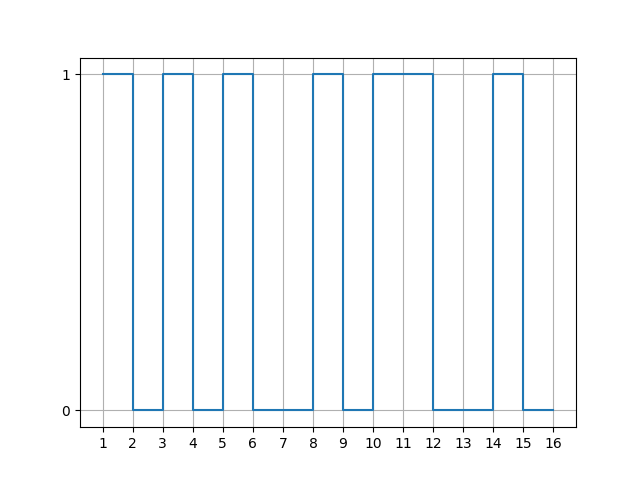
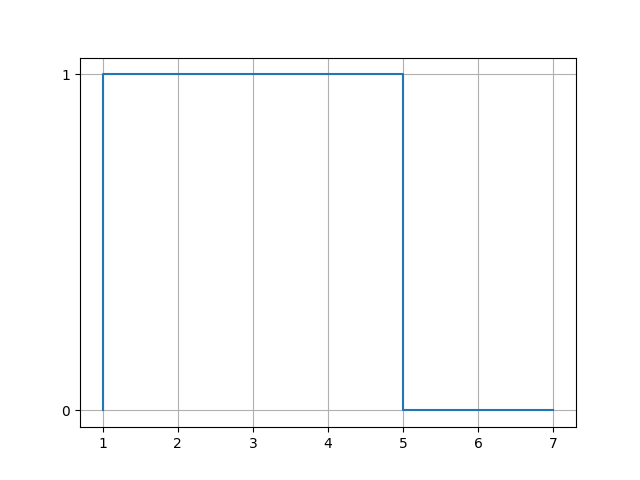
just missing the encodings

diff --git a/main_application.py b/main_application.py
@@ -1,5 +1,8 @@
 import pygame
+import os.path
+
 from interface import Interface
+from wave_generator import DataPlotter
 
 class app:
     def __init__(self):
@@ -19,11 +22,23 @@ class app:
         # text input box
         self.text_input_box_width = 200
         self.text_input_box_height = 40
+        self.text_input_box_px = 40
+        self.text_input_box_py = 40
         self.text_input_box = pygame.Rect((self.display.get_width() - self.text_input_box_width) // 2,
-                                           (self.display.get_height() - self.text_input_box_height) // 2,
+                                           (self.display.get_height() - self.text_input_box_height) // 6,
                                            self.text_input_box_width,
                                            self.text_input_box_height)
+        
         self.text_input = ""
+        self.dataplt = DataPlotter()
+        self.image_path = os.path.join('./generated_waves/plot.png')
+
+        # load image
+        self.current_image = None
+        try:
+            self.current_image = pygame.image.load(self.image_path)
+        except:
+            pass
 
     def run(self):
         while True:
@@ -37,12 +52,14 @@ class app:
                     self.display = pygame.display.set_mode((event.w, event.h), pygame.RESIZABLE)
                     # update the text input box position
                     self.text_input_box.left = (self.display.get_width() - self.text_input_box_width) // 2
-                    self.text_input_box.top = (self.display.get_height() - self.text_input_box_height) // 2
+                    self.text_input_box.top = self.display.get_height() // 6
 
                 elif event.type == pygame.KEYDOWN:
                     if event.key == pygame.K_RETURN:
                         print(self.text_input)
+                        self.dataplt.plot(self.text_input)
                         self.text_input = ""
+                        self.current_image = pygame.image.load(self.image_path)
                     elif event.key == pygame.K_BACKSPACE:
                         self.text_input = self.text_input[:-1]
                     else:
@@ -50,10 +67,19 @@ class app:
 
             self.display.fill(self.background_color) # background
             pygame.draw.rect(self.display, (0, 0, 0), self.text_input_box, 2) # text box
-            text_surface = self.font.render(self.text_input, True, (0, 0, 0)) # text thats being writen
-            text_rect = text_surface.get_rect(center=self.text_input_box.center) # text thats being writen
-            self.display.blit(text_surface, text_rect) # text thats being writen
+            text_surface = self.font.render(self.text_input, True, (0, 0, 0)) # text that's being written
+            text_rect = text_surface.get_rect(center=self.text_input_box.center) # text that's being written
+            self.display.blit(text_surface, text_rect) # text that's being written
+
+            # display image
+            if self.current_image is not None:
+                try:
+                    image_rect = self.current_image.get_rect()
+                    image_pos = ((self.display.get_width() - image_rect.width) // 2, (self.display.get_height() - image_rect.height) // 2 + self.display.get_height() // 6)
+                    self.display.blit(self.current_image, image_pos)
+
+                except pygame.error as e:
+                    print(f'Error displaying image: {e}')
 
             # update display
             pygame.display.update()
-

diff --git a/wave_generator.py b/wave_generator.py
@@ -1,26 +1,33 @@
 import matplotlib.pyplot as plt
 
-# sample string of zeros and ones
-data_str = "1101010010110010"
+class DataPlotter:
+    def plot(self, data_str):
 
-# convert string to list of integers
-data = [int(d) for d in data_str]
+        if not all(c in "01" for c in data_str):
+            print("Error: data_str contains non-binary characters")
+            return
 
-# plot data as a simple line chart with step function
-plt.step(range(1, len(data) + 1), data, where='pre')
 
-# set y-axis ticks and labels
-plt.yticks([0, 1], ["0", "1"])
+        # convert string to list of integers
+        data = [int(d) for d in data_str]
 
-# set x-axis ticks and labels
-plt.xticks(range(1, len(data) + 1))
 
-# add a grid to the plot
-plt.grid(axis='y')
-plt.grid(axis='x')
+        # plot data as a simple line chart with step function
+        plt.step(range(1, len(data) + 1), data, where='pre')
 
-# save plot to file
-plt.savefig('./generated_waves/plot.png')
+        # set y-axis ticks and labels
+        plt.yticks([0, 1], ["0", "1"])
 
-# display plot
-plt.show()
+        # set x-axis ticks and labels
+        plt.xticks(range(1, len(data) + 1))
+
+        # add a grid to the plot
+        plt.grid(axis='y')
+        plt.grid(axis='x')
+
+        fig_path = './generated_waves/plot.png'
+        plt.savefig(fig_path)
+
+        plt.clf()
+
+

diff --git a/interface.py b/interface.py
@@ -1,3 +1,5 @@
 class Interface:
     MINIMUM_WIDTH = 400
     MINIMUM_HEIGHT = 300
+    def get_position(px, py, screenw, screenh):
+        return ((px/100) * screenw, (py/100) * screenh)
